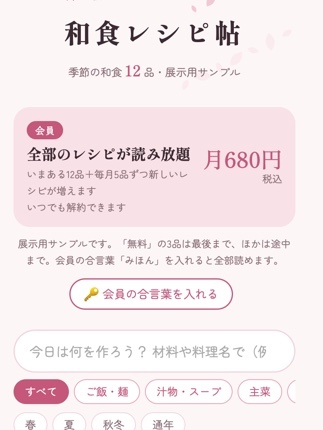
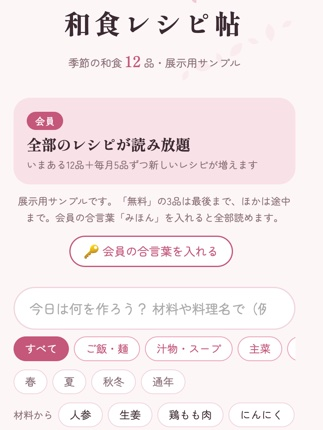
作品集のレシピ帖（ダミー）から値段の表示を外す
値段はまだ決めていないので、見本のページとカードの画像から月額の金額と解約の案内を外した。

diff --git a/recipe/index.html b/recipe/index.html
@@ -166,8 +166,7 @@ ol.steps li::before{content:counter(s);position:absolute;left:0;top:6px;width:26
     <p>季節の和食 <span class="n" id="total"></span> 品・展示用サンプル</p>
   </div>
   <div id="shop" hidden>
-    <div class="year"><div class="l"><span class="badge">会員</span><b>全部のレシピが読み放題</b><small>いまある<span id="nall"></span>品＋毎月5品ずつ新しいレシピが増えます<br>いつでも解約できます</small></div>
-      <div class="r"><div class="p">月680円</div><small>税込</small></div></div>
+    <div class="year"><div class="l"><span class="badge">会員</span><b>全部のレシピが読み放題</b><small>いまある<span id="nall"></span>品＋毎月5品ずつ新しいレシピが増えます</small></div></div>
     <p class="demo" id="demo"></p>
     <div class="keybar"><button class="keybtn" id="keybtn" type="button">🔑 会員の合言葉を入れる</button><span class="owned" id="owned"></span></div>
   </div>
@@ -251,7 +250,7 @@ if (DEMO) {
   $("#go").onclick = tryPass; $("#pass").onkeydown = e => { if (e.key === "Enter") tryPass(); };
   $("#demo").textContent = `展示用サンプルです。「無料」の3品は最後まで、ほかは途中まで。会員の合言葉「みほん」を入れると全部読めます。`;
 }
-const PAY = r => `<div class="pay"><b>続きは会員になると読めます</b><span class="sub">月680円で、全部のレシピと毎月の新しいレシピが読み放題</span><div class="plans"><div class="best"><span>レシピ帖 会員</span><span class="c">${R.length}品＋毎月5品</span><span class="p">月680円</span></div></div>いつでも解約できます<br><button type="button" disabled>会員になる（準備中）</button><small>見本のため、このボタンはまだ動きません</small><button class="haskey" type="button" onclick="openUl()">会員の方はこちら（合言葉を入れる）</button></div>`;
+const PAY = r => `<div class="pay"><b>続きは会員になると読めます</b><span class="sub">全部のレシピと毎月の新しいレシピが読み放題</span><div class="plans"><div class="best"><span>レシピ帖 会員</span><span class="c">${R.length}品＋毎月5品</span></div></div><button type="button" disabled>会員になる（準備中）</button><small>見本のため、このボタンはまだ動きません</small><button class="haskey" type="button" onclick="openUl()">会員の方はこちら（合言葉を入れる）</button></div>`;
 let genre = "すべて", book = "";
 function chips() {
   $("#ings").innerHTML = `<span class="ingl">材料から</span>` + TOP.map(w => `<button class="chip" id="w-${w}" data-w="${w}">${w}</button>`).join("");
@@ -304,7 +303,7 @@ async function openRead(id, push) {
   $("#detail").innerHTML = `<div class="dbar"><button class="back" id="back">← もどる</button><span class="count">資料</span></div>
     <article class="dbody article"><h2>${esc(x.title)}</h2><p class="lead">${esc(x.lead)}</p>
     ${x.sections.map(sc => `<h3>${esc(sc.h)}</h3>${sc.html}`).join("")}
-    ${x.locked ? `<div class="pay"><b>続きはレシピ帖で読めます</b><span class="sub">この資料（全${x.total}項目）は会員になると読めます</span><div class="plans"><div class="best"><span>レシピ帖 会員</span><span class="c">${R.length}品＋毎月5品</span><span class="p">月680円</span></div></div><button type="button" disabled>会員になる（準備中）</button><small>見本のため、このボタンはまだ動きません</small><button class="haskey" type="button" onclick="openUl()">会員の方はこちら（合言葉を入れる）</button></div>` : ""}
+    ${x.locked ? `<div class="pay"><b>続きはレシピ帖で読めます</b><span class="sub">この資料（全${x.total}項目）は会員になると読めます</span><div class="plans"><div class="best"><span>レシピ帖 会員</span><span class="c">${R.length}品＋毎月5品</span></div></div><button type="button" disabled>会員になる（準備中）</button><small>見本のため、このボタンはまだ動きません</small><button class="haskey" type="button" onclick="openUl()">会員の方はこちら（合言葉を入れる）</button></div>` : ""}
     ${recipes.map(r => `<button class="golink" data-id="${r.id}">← ${esc(r.title)}に戻る</button>`).join("")}</article>`;
   $("#detail").hidden = false; $("#detail").scrollTop = 0; document.body.style.overflow = "hidden";
   $("#back").onclick = () => history.length > 1 && location.hash ? history.back() : close();

diff --git a/index.html b/index.html
@@ -541,7 +541,7 @@
       </a>
 
       <a class="card" href="/recipe/">
-        <img class="thumb" src="/assets/recipe.jpg" alt="和食レシピ帖の画面。会員案内と、材料から探す検索窓">
+        <img class="thumb" src="/assets/recipe.jpg?v=2" alt="和食レシピ帖の画面。会員案内と、材料から探す検索窓">
         <span>
           <p class="eyebrow">12 ・ RECIPE</p>
           <h2>料理教室のレシピ帖<span class="arrow">→</span></h2>
